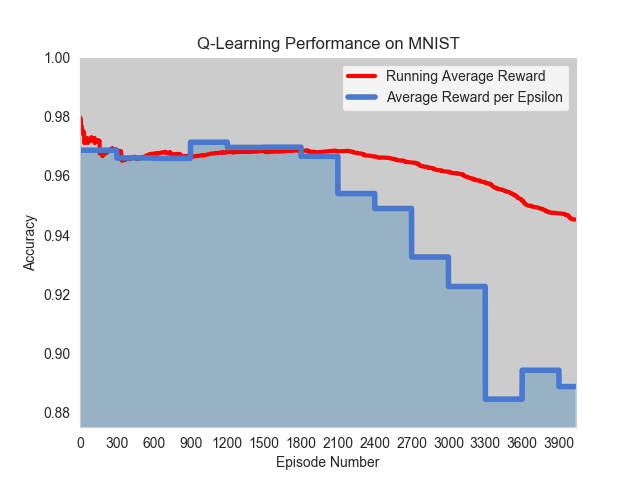
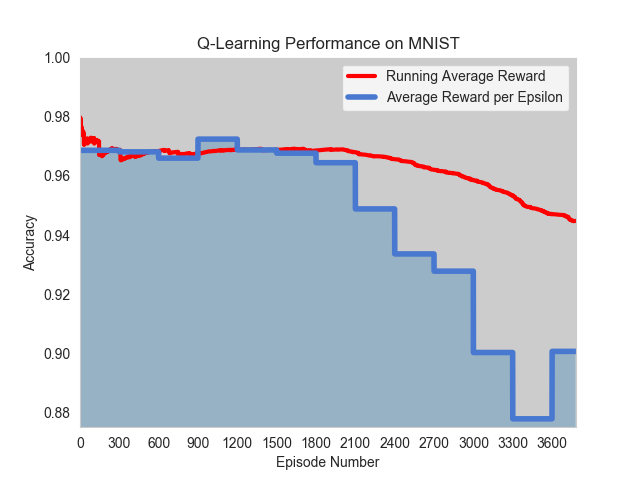
fix graph

diff --git a/VISUALIZE_MODEL_CHART/REMOVE_DUPLICATE_EPISODE.py b/VISUALIZE_MODEL_CHART/REMOVE_DUPLICATE_EPISODE.py
@@ -24,15 +24,15 @@ def main():
     DATASET_FOLDER = 'MNIST'
     # MAIN_FOLDER = 'MNIST_1' # does not have episode_table
     # MAIN_FOLDER = 'MNIST_2'
-    # MAIN_FOLDER = 'MNIST_3'
+    MAIN_FOLDER = 'MNIST_3'
     # MAIN_FOLDER = 'MNIST_4'
 
-    DATASET_FOLDER = 'CIFAR-10'
+    # DATASET_FOLDER = 'CIFAR-10'
     # MAIN_FOLDER = 'CIFAR-10_1'   # does not have episode_table
     # MAIN_FOLDER = 'CIFAR-10_2'   # does not have episode_table
     # MAIN_FOLDER = 'CIFAR-10_3'    # does not have episode_table
     # MAIN_FOLDER = 'CIFAR-10_4'    # does not have episode_table
-    MAIN_FOLDER = 'CIFAR-10_5'
+    # MAIN_FOLDER = 'CIFAR-10_5'
     # MAIN_FOLDER = 'CIFAR-10_5'
 
     EPISODE_FOLDER = 'EPISODE_TABLE'

diff --git a/VISUALIZE_MODEL_CHART/CREATE_AREA_CHART.py b/VISUALIZE_MODEL_CHART/CREATE_AREA_CHART.py
@@ -187,9 +187,9 @@ def main():
 
     DATASET = 'mnist'
     DATASET_FOLDER = 'MNIST'
-    MAIN_FOLDER = 'MNIST_1'
+    # MAIN_FOLDER = 'MNIST_1'
     # MAIN_FOLDER = 'MNIST_2'
-    # MAIN_FOLDER = 'MNIST_3'
+    MAIN_FOLDER = 'MNIST_3'
     # MAIN_FOLDER = 'MNIST_4'
 
     # DATASET = 'cifar10'
